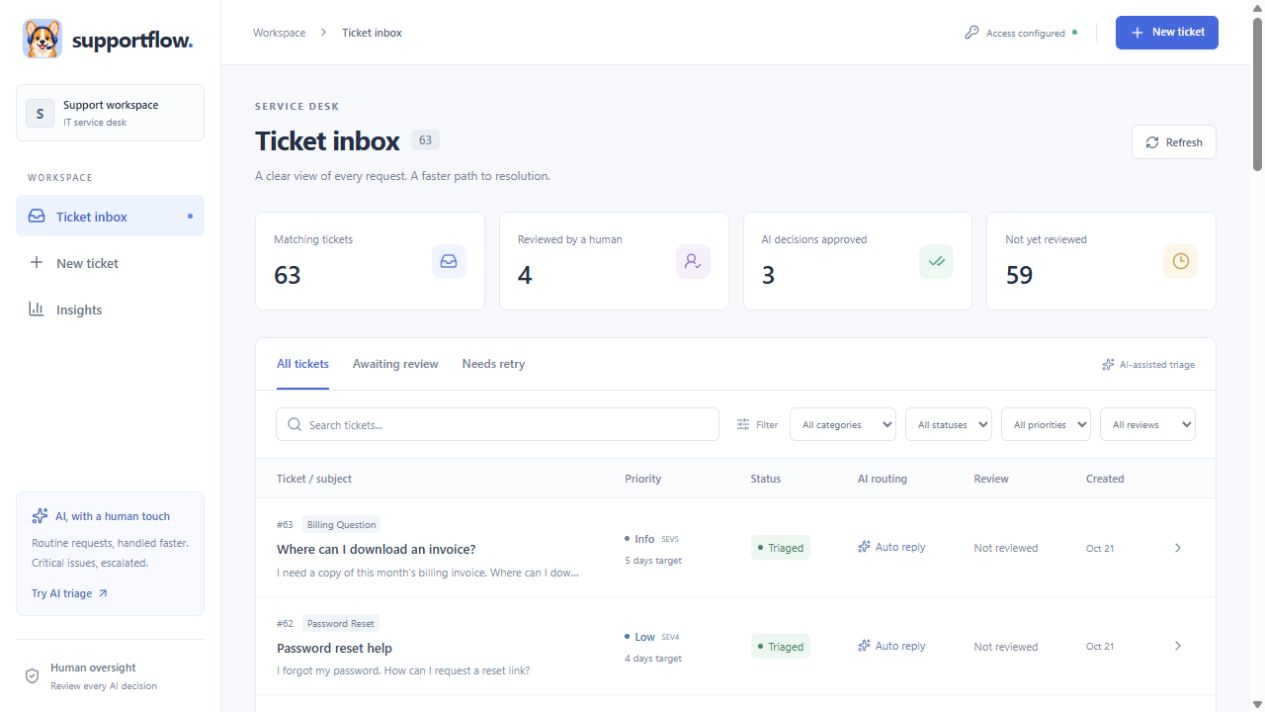
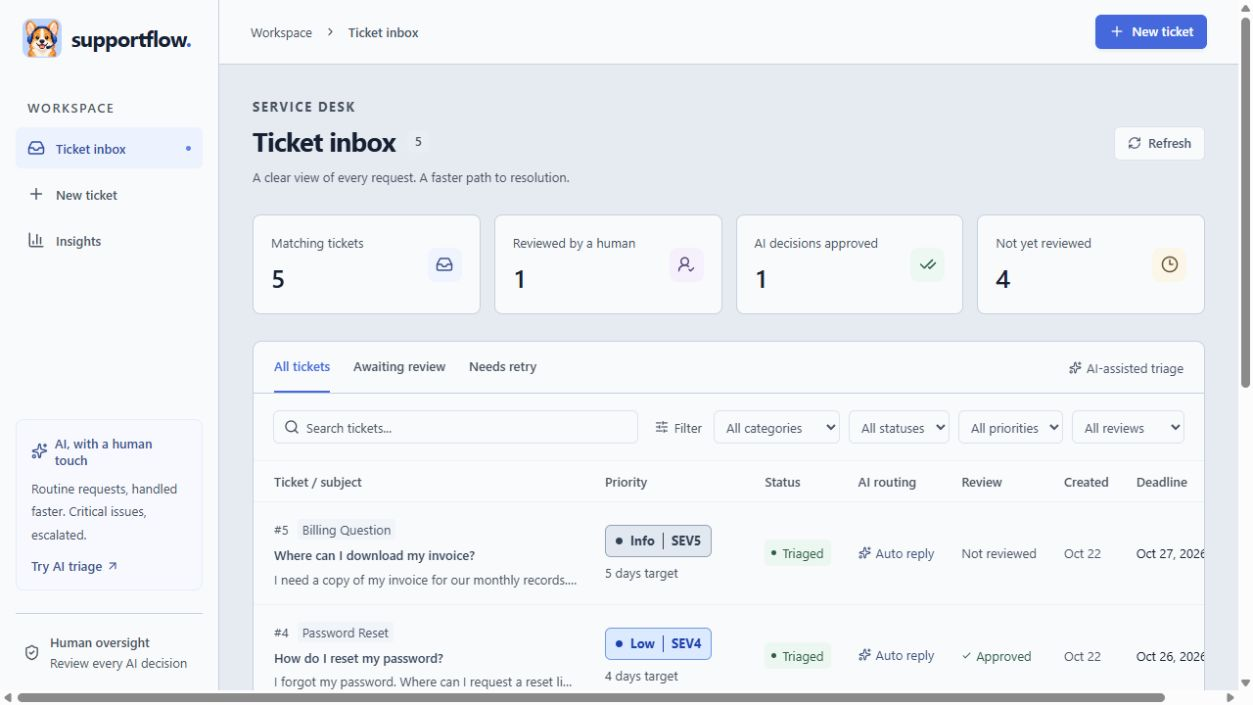
Refresh SupportFlow case study and demo screenshots

diff --git a/src/data/projects.js b/src/data/projects.js
@@ -3,7 +3,7 @@ const supportImage = name => `${import.meta.env.BASE_URL}projects/supportflow/${
 // Keep project content here; all cards share one case-study page.
 export const projects = [{
   slug: "supportflow",
-  description: "SupportFlow is an AI-assisted helpdesk that helps sort incoming support tickets. Users can type a request or upload an email, and the system identifies the issue, assigns a severity and decides whether to suggest a FAQ-based reply or pass it to a person. The dashboard brings ticket history, AI assessments, human reviews and reporting together in one place.",
+  description: "SupportFlow is an AI-assisted helpdesk that helps sort incoming support tickets. Users can type a request or upload an email, and the system identifies the issue, assigns a severity and decides whether to suggest a FAQ-based reply or pass it to a person. The helpdesk brings priority badges, deadline dates, AI assessments and human reviews together in one workspace. Staff can record replies, update ticket status with a required note, and follow each change in a timeline. The AI suggests reply text; email delivery is not integrated.",
   title: "SupportFlow",
   category: "AI engineering / Full stack",
   summary: "AI-assisted ticket triage with grounded FAQ replies, critical-incident escalation and a human review workspace.",
@@ -14,7 +14,7 @@ export const projects = [{
   gallery: [{
     image: supportImage("inbox.png"),
     title: "One queue, clear next steps",
-    caption: "Search and filter tickets by category, processing state, priority and review status. Screenshots use an isolated sample database."
+    caption: "Search and filter tickets, compare colour-coded priorities and check SLA deadlines. All screenshots show synthetic tickets in an isolated demo database."
   }, {
     image: supportImage("intake.png"),
     title: "From request to AI triage",
@@ -22,14 +22,18 @@ export const projects = [{
   }, {
     image: supportImage("assessment.png"),
     title: "A decision you can inspect",
-    caption: "The request and suggested FAQ reply sit beside the AI assessment. Review, response notes and saved decision evidence remain available in ticket details."
+    caption: "Inspect the expandable AI assessment, copy the suggested reply and review the classification before recording a helpdesk update."
+  }, {
+    image: supportImage("workflow.png"),
+    title: "Keep every update in context",
+    caption: "Move tickets from Open to Responded states with a required note. The timeline keeps triage, review, response and status activity together."
   }, {
     image: supportImage("insights.png"),
     title: "See the whole queue",
-    caption: "Classification and routing insights aggregate the full database rather than just the visible page of tickets."
+    caption: "Switch between bar and pie charts for category and routing breakdowns. Reports cover the full ticket database, with synthetic demo values shown here."
   }],
-  features: [["FAQ-based replies", "Suggest replies using relevant guidance from the support knowledge base."], ["AI ticket triage", "Identify the type of issue and its severity to help decide the next step."], ["Automatic escalation", "Send critical incidents and requests the AI cannot safely answer to a person."], ["Manual and email entry", "Create a ticket by typing a request or uploading an email file."], ["Ticket history and retries", "Search and filter saved tickets, view earlier attempts and retry failed processing."], ["Human review", "Review AI decisions, correct classifications and record agent response notes."]],
-  workflow: ["Save the request", "Retrieve FAQ context", "Assess with the LLM", "Enforce routing policy", "Reply or escalate"]
+  features: [["Grounded reply suggestions", "Retrieve relevant FAQ guidance and suggest replies that a helpdesk user can copy."], ["Context-aware incident assessment", "Assess impact scope, availability and incident status with structured AI output, then apply severity and escalation rules."], ["Priorities and deadlines", "Distinguish SEV1 to SEV5 with colour-coded badges and see each ticket's SLA deadline."], ["Manual and email entry", "Type a single-issue request or upload an email through the same triage pipeline."], ["Review and response workflow", "Review AI classifications and record Responded statuses with a required update note."], ["Activity timeline", "Follow ticket creation, triage attempts, reviews and helpdesk status changes without losing earlier notes."], ["Flexible analytics", "Choose bar or pie charts for classification and routing breakdowns across saved tickets."]],
+  workflow: ["Save the request", "Retrieve FAQ context", "Assess incident facts", "Apply severity and routing rules", "Suggest a reply or escalate", "Record helpdesk updates"]
 }, {
   slug: "room-booking",
   description: "A room booking application inspired by the difficulties of managing reservations in a shared spreadsheet. It provides a structured way to manage room bookings, with backend validation to check for overlapping time slots and PostgreSQL to store reservation records.",
